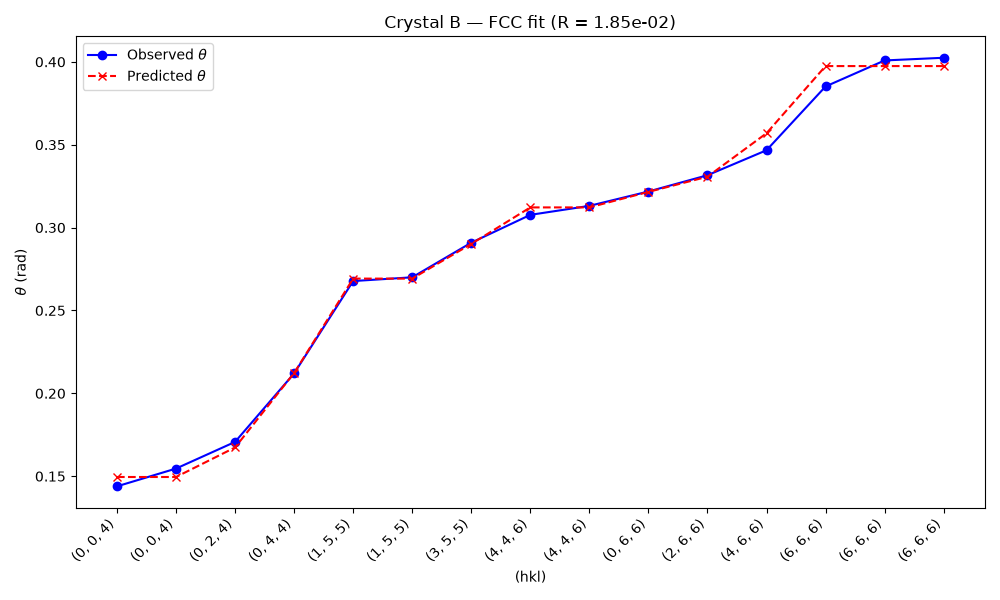
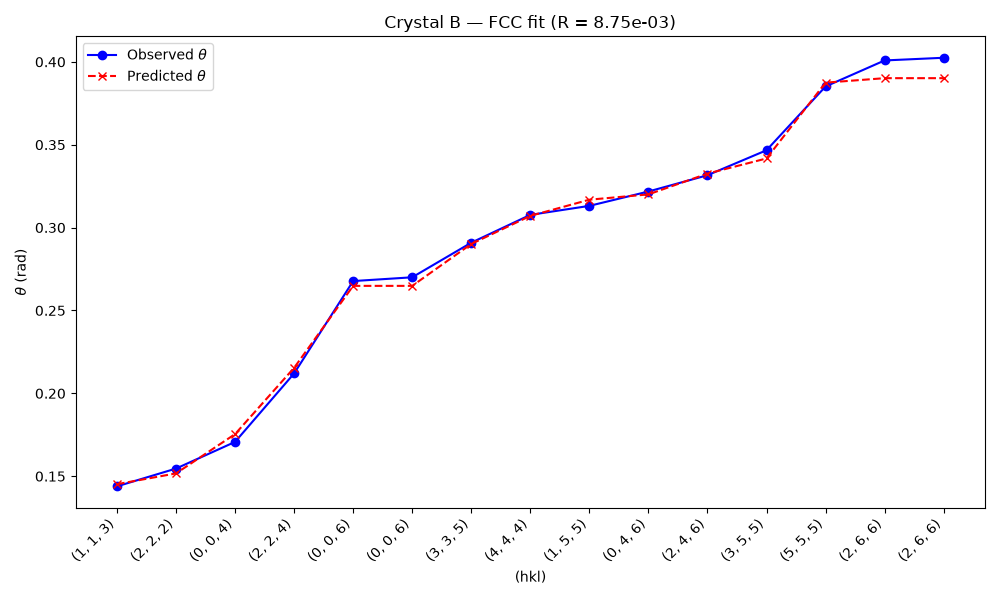
fixed minimized for cubic version

diff --git a/HW1/solve_hw1.py b/HW1/solve_hw1.py
@@ -143,13 +143,23 @@ def fit_lattice(
     hkl_list = apply_selection_rule(hkl_list_all, selection_rule)
     
     if lattice_type == "cubic":
-        res = minimize_scalar(
-            lambda a: objective(np.array([a]), d_obs, hkl_list, lattice_type),
-            bounds=a_bounds,
-            method='bounded'
-        )
-        best_params = np.array([res.x])
-        best_residual = res.fun
+        best_params = None
+        best_residual = float('inf')
+        
+        # Use a finer grid for 1D to ensure we don't miss the global minimum
+        a_vals = np.linspace(a_bounds[0], a_bounds[1], n_grid * 5)
+        
+        for a0 in a_vals:
+            res = minimize(
+                objective,
+                x0=np.array([a0]),
+                args=(d_obs, hkl_list, lattice_type),
+                bounds=[a_bounds],
+                method='L-BFGS-B'
+            )
+            if res.fun < best_residual:
+                best_residual = res.fun
+                best_params = res.x
     else:
         best_params = None
         best_residual = float('inf')

diff --git a/HW1/test_obj.py b/HW1/test_obj.py
@@ -1,0 +1,20 @@
+import numpy as np
+from solve_hw1 import objective, generate_hkl, apply_selection_rule, compute_d_obs, load_data, compute_theta
+import matplotlib.pyplot as plt
+
+kw = 8.8581
+alpha_A, _ = load_data("data.csv")
+theta_A = compute_theta(alpha_A)
+d_obs = compute_d_obs(theta_A, kw)
+
+hkl_list_all = generate_hkl(6, 6, 6)
+hkl_list_sc = apply_selection_rule(hkl_list_all, "all")
+hkl_list_bcc = apply_selection_rule(hkl_list_all, "bcc")
+
+a_vals = np.linspace(1.0, 10.0, 1000)
+obj_sc = [objective(np.array([a]), d_obs, hkl_list_sc, "cubic") for a in a_vals]
+obj_bcc = [objective(np.array([a]), d_obs, hkl_list_bcc, "cubic") for a in a_vals]
+
+print(f"Min obj SC at a={a_vals[np.argmin(obj_sc)]}, val={np.min(obj_sc)}")
+print(f"Min obj BCC at a={a_vals[np.argmin(obj_bcc)]}, val={np.min(obj_bcc)}")
+

diff --git a/HW1/test_brent.py b/HW1/test_brent.py
@@ -1,0 +1,24 @@
+import numpy as np
+from scipy.optimize import minimize_scalar
+from solve_hw1 import objective, generate_hkl, apply_selection_rule, compute_d_obs, load_data, compute_theta
+
+kw = 8.8581
+alpha_A, _ = load_data("data.csv")
+theta_A = compute_theta(alpha_A)
+d_obs = compute_d_obs(theta_A, kw)
+
+hkl_list_all = generate_hkl(6, 6, 6)
+hkl_list_sc = apply_selection_rule(hkl_list_all, "all")
+
+eval_points = []
+def wrapped_objective(a):
+    val = objective(np.array([a]), d_obs, hkl_list_sc, "cubic")
+    eval_points.append((a, val))
+    return val
+
+res = minimize_scalar(wrapped_objective, bounds=(1.0, 10.0), method='bounded')
+print(f"Final result: {res.x}")
+print("Evaluation sequence:")
+for a, val in eval_points:
+    print(f"a = {a:.4f}, val = {val:.2e}")
+

diff --git a/HW1/test_obj_plot.py b/HW1/test_obj_plot.py
@@ -1,0 +1,19 @@
+import numpy as np
+from solve_hw1 import objective, generate_hkl, apply_selection_rule, compute_d_obs, load_data, compute_theta
+import matplotlib.pyplot as plt
+
+kw = 8.8581
+alpha_A, _ = load_data("data.csv")
+theta_A = compute_theta(alpha_A)
+d_obs = compute_d_obs(theta_A, kw)
+
+hkl_list_all = generate_hkl(6, 6, 6)
+hkl_list_sc = apply_selection_rule(hkl_list_all, "all")
+
+a_vals = np.linspace(1.0, 10.0, 5000)
+obj_sc = [objective(np.array([a]), d_obs, hkl_list_sc, "cubic") for a in a_vals]
+
+for i in range(1, len(a_vals)-1):
+    if obj_sc[i] < obj_sc[i-1] and obj_sc[i] < obj_sc[i+1] and obj_sc[i] < 0.01:
+        print(f"Local min at a={a_vals[i]:.4f}, val={obj_sc[i]:.2e}")
+
